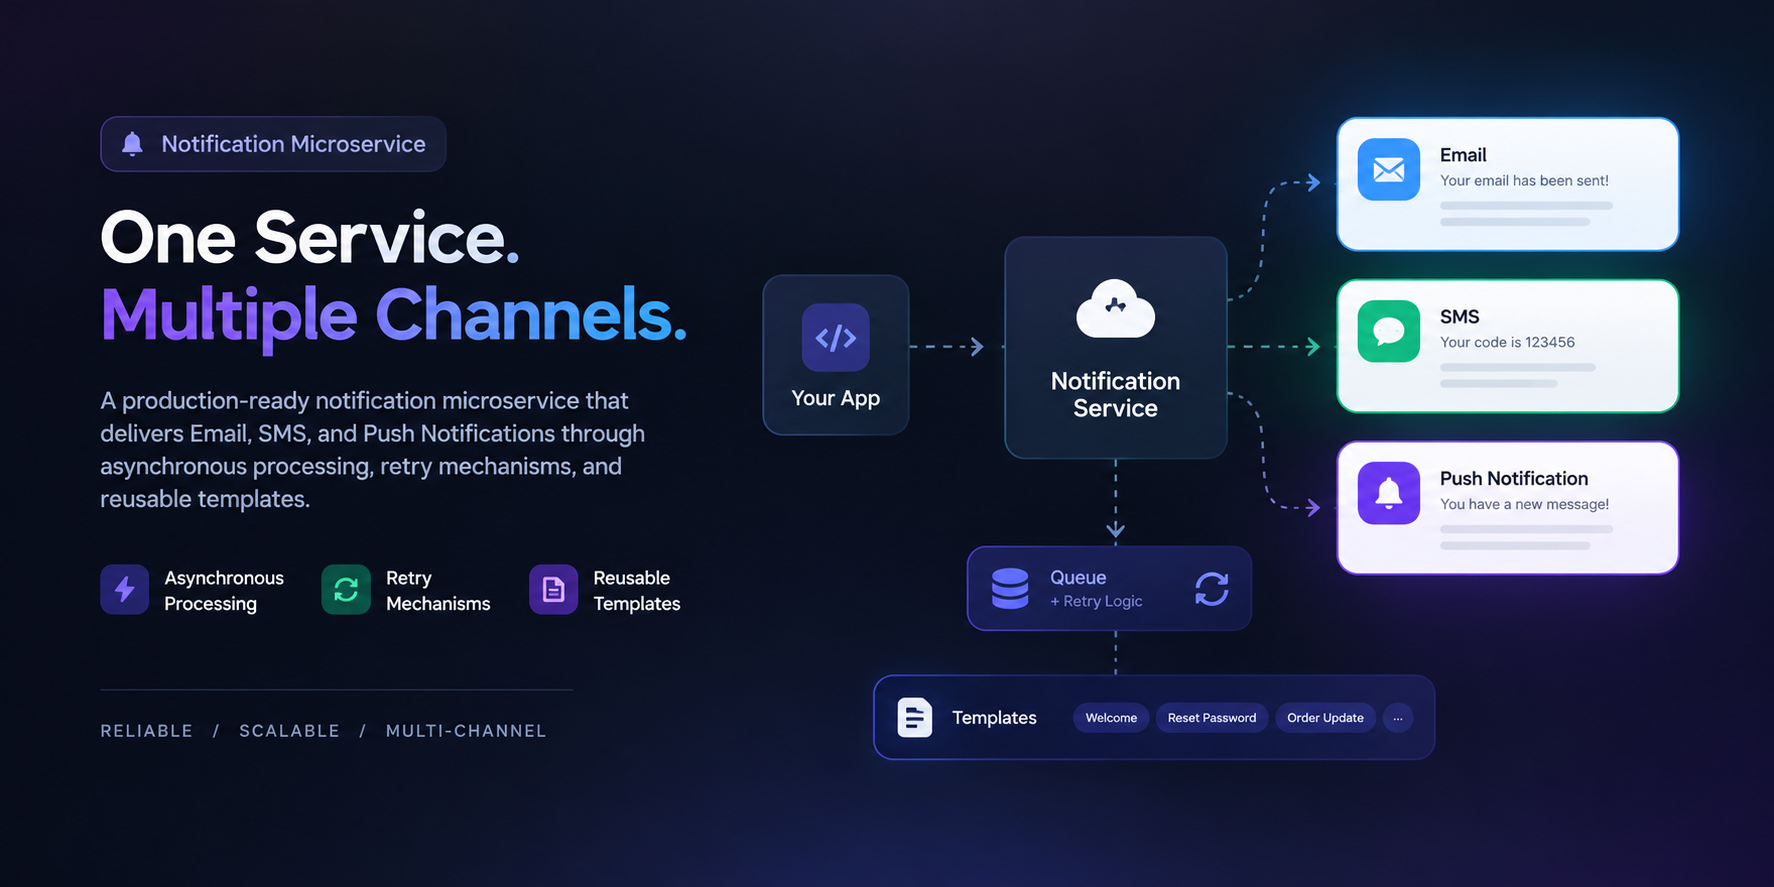
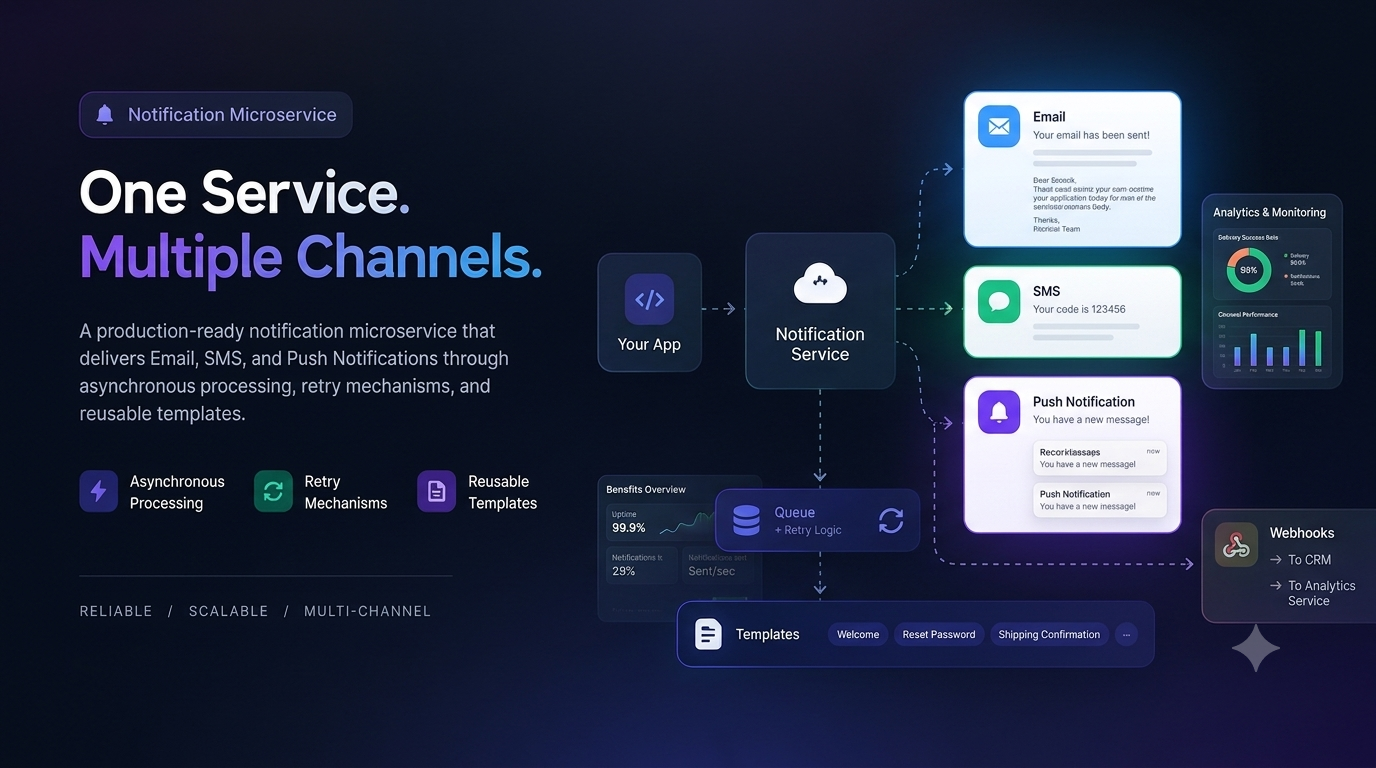
V1 Done

diff --git a/src/app/project/[slug]/page.tsx b/src/app/project/[slug]/page.tsx
@@ -76,6 +76,7 @@ export default async function ProjectDetailPage({ params }: ProjectPageProps) {
 }
 
 function ProjectHeader({ project }: { project: ProjectDetails }) {
+
     return (
         <header className="mt-6">
             <FadeIn delay={0.1}>
@@ -88,7 +89,7 @@ function ProjectHeader({ project }: { project: ProjectDetails }) {
             {/* Project cover */}
             {project.cover && (
                 <FadeIn delay={0.2}>
-                    <div className="bg-muted/10 mt-6 overflow-hidden rounded-xl">
+                    <div className={`bg-muted/10 mt-6 overflow-hidden rounded-xl shadow-2xl shadow-${project.colors.primary}/70`}>
                         <img
                             src={project.cover}
                             alt={`${project.title} cover`}
@@ -220,16 +221,18 @@ function ProbSolsAndOverview({ project }: { project: ProjectDetails }) {
                     </h2>
 
                     <div className="flex flex-wrap gap-2">
-                        {project.technologies.map((tech) => (
+                        {project.technologies.map((tech) => {
+                            let icon = tech.split(" - ")[1].split(":").length > 1 ? tech.split(" - ")[1] : "logos:"+tech.split(" - ")[1];
+                            return(
                             <TooltipWrapper key={tech} text={tech.split("-")[0]}>
                                 <div className="border-muted/20 flex h-7 w-7 items-center justify-center rounded-md border-2 border-dashed bg-slate-500/10 transition-all hover:scale-105 hover:bg-slate-500/50">
                                     <Icon
-                                        icon={`logos:${tech.toLowerCase()}`}
+                                        icon={`${icon.toLowerCase()}`}
                                         className="h-4 w-4"
                                     />
                                 </div>
                             </TooltipWrapper>
-                        ))}
+                        )})}
                     </div>
                 </section>
             </FadeIn>

diff --git a/src/components/sections/Projects/ProjectSection.tsx b/src/components/sections/Projects/ProjectSection.tsx
@@ -143,13 +143,15 @@ function TechnologySection({ technologies }: { technologies: string[] }) {
             <h4 className="mb-3 font-semibold text-xs">Technologies & Tools</h4>
 
             <div className="flex flex-wrap gap-2">
-                {technologies.map((tech) => (
+                {technologies.map((tech) => {
+                    let icon = tech.split(" - ")[1].split(":").length > 1 ? tech.split(" - ")[1] : "logos:"+tech.split(" - ")[1];
+                    return(
                     <TooltipWrapper key={tech} text={tech.split("-")[0]}>
                         <div className="border-muted/20 hover:bg-slate-500/50 bg-slate-500/10 flex h-7 w-7 items-center justify-center rounded-md border-2 border-dashed transition-all hover:scale-105">
-                            <Icon icon={`logos:${tech.toLowerCase()}`} className="h-4 w-4" />
+                            <Icon icon={`${icon.toLowerCase()}`} className="h-4 w-4" />
                         </div>
                     </TooltipWrapper>
-                ))}
+                )})}
             </div>
         </div>
     );

diff --git a/src/app/globals.css b/src/app/globals.css
@@ -32,7 +32,9 @@
   --color-tooltip: var(--tooltip-background);
   --color-tooltip-text: var(--tooltip-text);
   --color-logo-bg: var(--logo-bg);
-  --color-p1-color: var(--p1-color)
+  --color-p1-color: var(--p1-color);
+  --color-p2-color: var(--p2-color);
+  --color-p3-color: var(--p3-color);
 }
 
 :root {
@@ -46,6 +48,8 @@
   --tooltip-text: #F9FAFB;
   --logo-bg: oklch(0.792 0.118 264.5);
   --p1-color: #00B894;
+  --p2-color: #CE1455;
+  --p3-color: #FA4616;
   --card-bg: oklch(0.98 0.004 255);
 }
 
@@ -60,6 +64,8 @@
   --tooltip-text: #0F172A;
   --logo-bg: oklch(0.905 0.182 98.111);
   --p1-color: #003930;
+  --p2-color: #CE1455;
+  --p3-color: #FA4616;
   --card-bg: oklch(0.22 0.008 255);
 }
 

diff --git a/src/config/certificates.ts b/src/config/certificates.ts
@@ -82,7 +82,7 @@ export const certificates: CertificateDetails[] = [
     logo: "https://api.accredible.com/v1/credentials/oy47uy9x/artifact/badge",
     verifiedBy: "UiPath",
     issuedDate: new Date("2025-11-17"),
-    featured: true,
+    featured: false,
     verificationUrl: "https://credentials.uipath.com/e2e71dd3-b0f4-4f0f-b6eb-415138eccd98#acc.6TfQJrzy",
     learn: [
     "Understanding UiPath automation use cases and Clean Core principles for SAP systems.",
